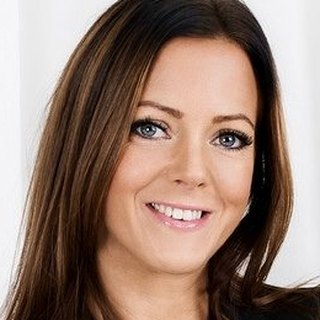
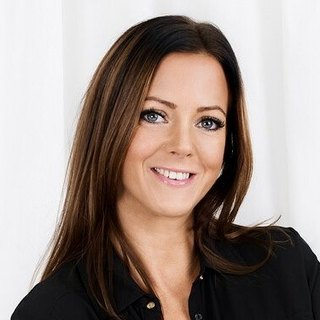
Förslag: mer luft i profilbilder, citattecken
Claude-Session: https://claude.ai/code/session_01Rno5mobia5NSf4xo5e1URt

diff --git a/index.html b/index.html
@@ -878,7 +878,7 @@
     /* Recensioner: runda profilbilder */
     #emk-lp .emk-res__card { min-height: 0; }
     #emk-lp .emk-res__body { padding: 32px; gap: 24px; }
-    #emk-lp .emk-res__mark { margin: 0; }
+    #emk-lp .emk-res__mark { margin: 0 0 -8px; width: auto; height: 40px; background: none; border-radius: 0; font-size: 72px; line-height: .9; font-weight: 800; color: var(--gold); font-family: 'DM Sans', sans-serif; }
     #emk-lp .emk-res__by { display: flex; flex-direction: row; align-items: center; gap: 16px; padding-top: 24px; margin-top: auto; }
     #emk-lp .emk-res__q { flex: 1; }
     #emk-lp .emk-res__who { display: flex; flex-direction: column; gap: 2px; min-width: 0; }
